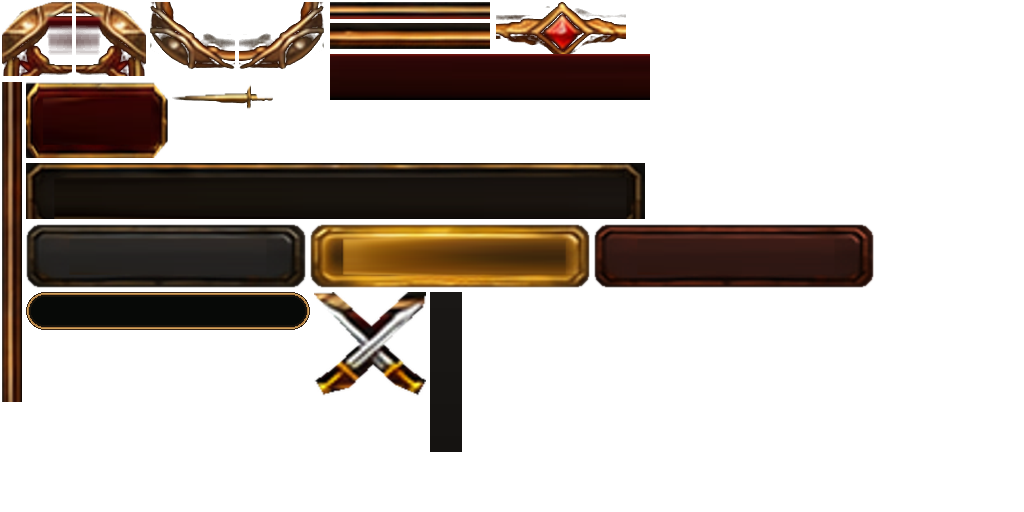
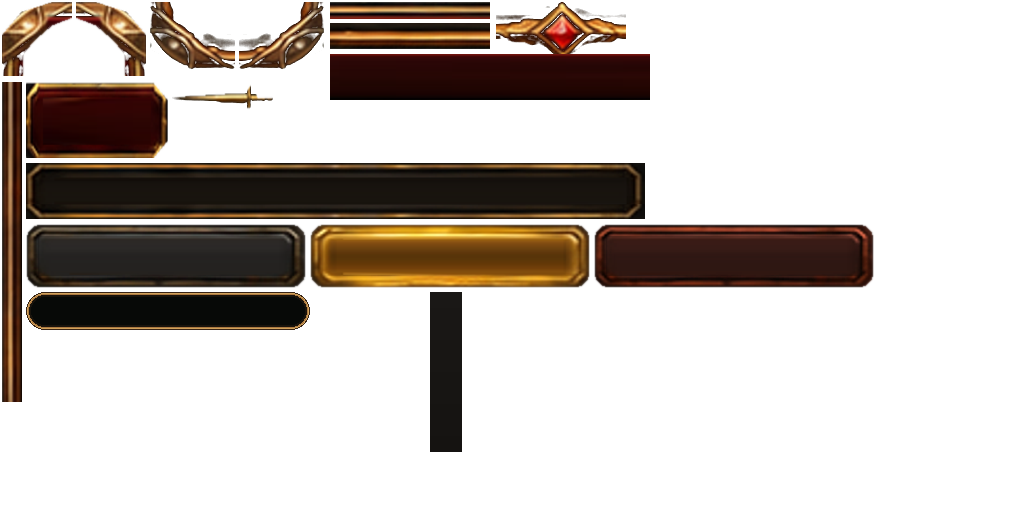
Clean individual HUD art edges and restore concept button proportions

diff --git a/tools/community/test_duel_hud.py b/tools/community/test_duel_hud.py
@@ -22,7 +22,7 @@ class DuelHUDTests(unittest.TestCase):
     def test_rounded_health_assets_and_secret_safe_percentage(self):
         import hashlib, struct
         assets={
-            "DuelHUDPremiumParts.png": ((1024,512),"586f3b8e5c525e0ea3623060d152938d34c2b631"),
+            "DuelHUDPremiumParts.png": ((1024,512),"ef13136df2a270171e43968c1fa2820ed7899309"),
             "DuelHUDHealthFill.png": ((256,32),"77aa11d7b1e264d25b1e7b03ac2fd36d9027536d"),
             "DuelHUDHealthMask.png": ((256,32),"953bba2639425582fe6b138f9ca083ad77a3e412"),
         }
@@ -96,3 +96,22 @@ class DuelHUDTests(unittest.TestCase):
             self.assertGreaterEqual(x,38)
             self.assertLessEqual(x+w,336-38)
         self.assertLessEqual(gem_y+gem_h,310)
+
+    def test_header_corner_and_control_clearance(self):
+        h=read("UI/DuelHUD.lua")
+        self.assertIn('Artwork("topLeft",0,0,28,30,"ARTWORK")',h)
+        self.assertIn('Artwork("topRight",WIDTH-28,0,28,30,"ARTWORK")',h)
+        self.assertIn('Artwork("swords",30,4,28,28,"OVERLAY")',h)
+        self.assertNotIn('Artwork("crest"',h)
+        self.assertIn('Label("Duels Reimagined",16,C.pale,62,4,165,26',h)
+        self.assertIn('gear=Action("",234,6,20,20',h)
+        self.assertIn('Place(foldButton,258,6,20,20)',h)
+        self.assertIn('close=Action("",282,6,20,20',h)
+        self.assertLessEqual(62+165,234)
+        self.assertLessEqual(282+20,336-28)
+        self.assertIn('Artwork("statRow",18,202,300,24)',h)
+        self.assertIn('Artwork("statRow",18,227,300,24)',h)
+        self.assertGreaterEqual(18,11)
+        self.assertLessEqual(18+300,336-11)
+        self.assertIn('Action("Ranked",43,40,119,30',h)
+        self.assertIn('Action("Unranked",174,40,119,30',h)

diff --git a/docs/DUEL_HUD.md b/docs/DUEL_HUD.md
@@ -31,3 +31,6 @@ Two native StatusBars use rounded alpha fill and optional static mask, matching 
 
 ### Modular skin correction and restricted text safety
 Replaces the full-panel premium shell with separate corner, rail, header material, background, jewel, timer badge, blade, stat-row, button and health-track texture regions. Each is independently positioned; shared header stays when folded, with an independent short lower rail. Footer controls and gem have distinct vertical lanes. No whole-widget screenshot used at runtime. Old premium atlas removed; original small control atlas remains shared. Health bar design and native values unchanged. Health percentage text still uses shared font registration but never invokes content-based fitting. Shared Style fitting checks measured width for secrets/refusal before comparison, including ordinary labels, to address the reported Forever error at Style.lua:50. Runtime mock covers secret-like measurements, refused width, ordinary fitting, health text no-fit, folding and native bar behavior. WoW visual and live restricted combat verification pending.
+
+### Individual asset cleanup
+Re-audited modular layout against the in-game screenshot. Removed header fragments from corner assets and discarded the contaminated crest crop, reusing the already packaged crossed-sword emblem. Header face is continuous; controls and emblem fit between corner bounds. Reconstructed lower edge of each stat-row asset and smoothed hard button-face patch seams while preserving rendered bevels. Wider centered mode buttons and less aggressive disabled-art dimming preserve the concept's metallic detail. Stat rows inset from side rails. No gameplay, health bar, secret handling or notification changes. Offline 336x310 composite checked; live WoW appearance pending.

diff --git a/docs/ASSET_PROVENANCE.md b/docs/ASSET_PROVENANCE.md
@@ -74,3 +74,5 @@ Achievement notification: AchievementNotificationArt.png, 1024x512 RGBA, blob 3f
 Premium HUD (2026-11-25): DuelHUDPremium.png (1024x1024, 304555 bytes, blob 6fd4670b4b21b1859dee9d54fa782a6e8b997dac) uses cropped and alpha-processed rendered sculpture from approved concept b6f6fdcf-783f-43ea-ad07-0a8334b6e49b, removing all sample labels, portraits and numbers. Pill track and green gradient are original geometric UI elements. DuelHUDHealthFill.png (256x32, blob 77aa11d7b1e264d25b1e7b03ac2fd36d9027536d) and DuelHUDHealthMask.png (256x32, blob 953bba2639425582fe6b138f9ca083ad77a3e412) are original alpha-shaped textures. No reference addon artwork copied. Shared original HUD atlas intentionally retained for notification and small control references.
 
 HUD modular art correction: DuelHUDPremiumParts.png (1024x512 RGBA, 166937 bytes, blob 586f3b8e5c525e0ea3623060d152938d34c2b631) separates rendered corner/rail/crest/gem/timer and individual blank control surfaces from previous approved assets, with original plain background material. No complete frame/screenshot sampled or retained. Supersedes DuelHUDPremium.png. Existing independent rounded health fill/mask unchanged. Polestar UI/GuideFrameLook.lua and Theme/Widgets.lua inspected for distinct theme pieces, font handling and control anchors; no reference code copied.
+
+Modular HUD cleanup: DuelHUDPremiumParts.png replaced in place with 1024x512 RGBA, 150375 bytes, blob ef13136df2a270171e43968c1fa2820ed7899309. Existing separate corner and button assets cleaned; stats border completed from its own top edge; contaminated crest cell removed. Existing HUD swords art reused. No new flattened screenshot.
